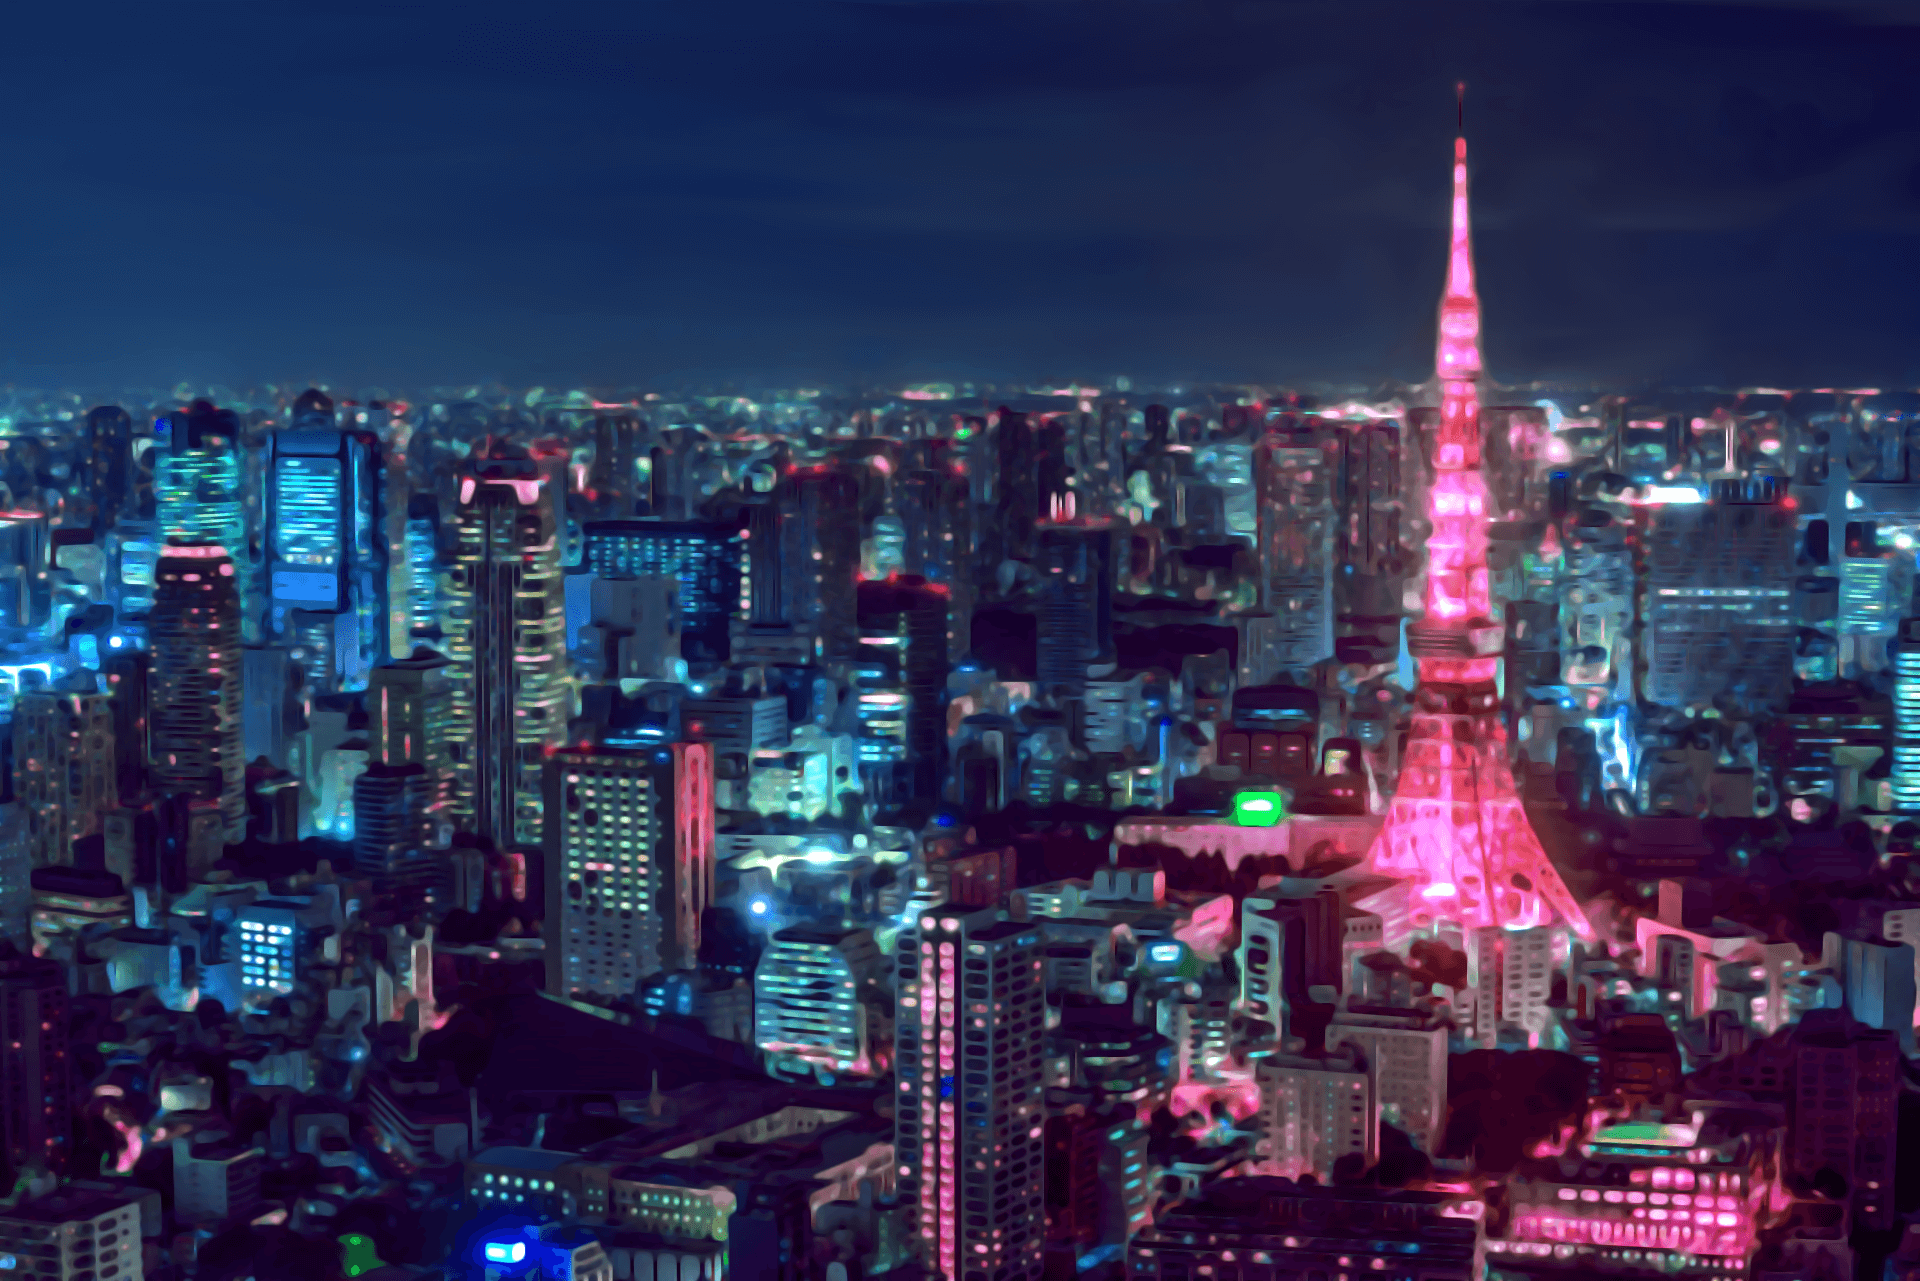
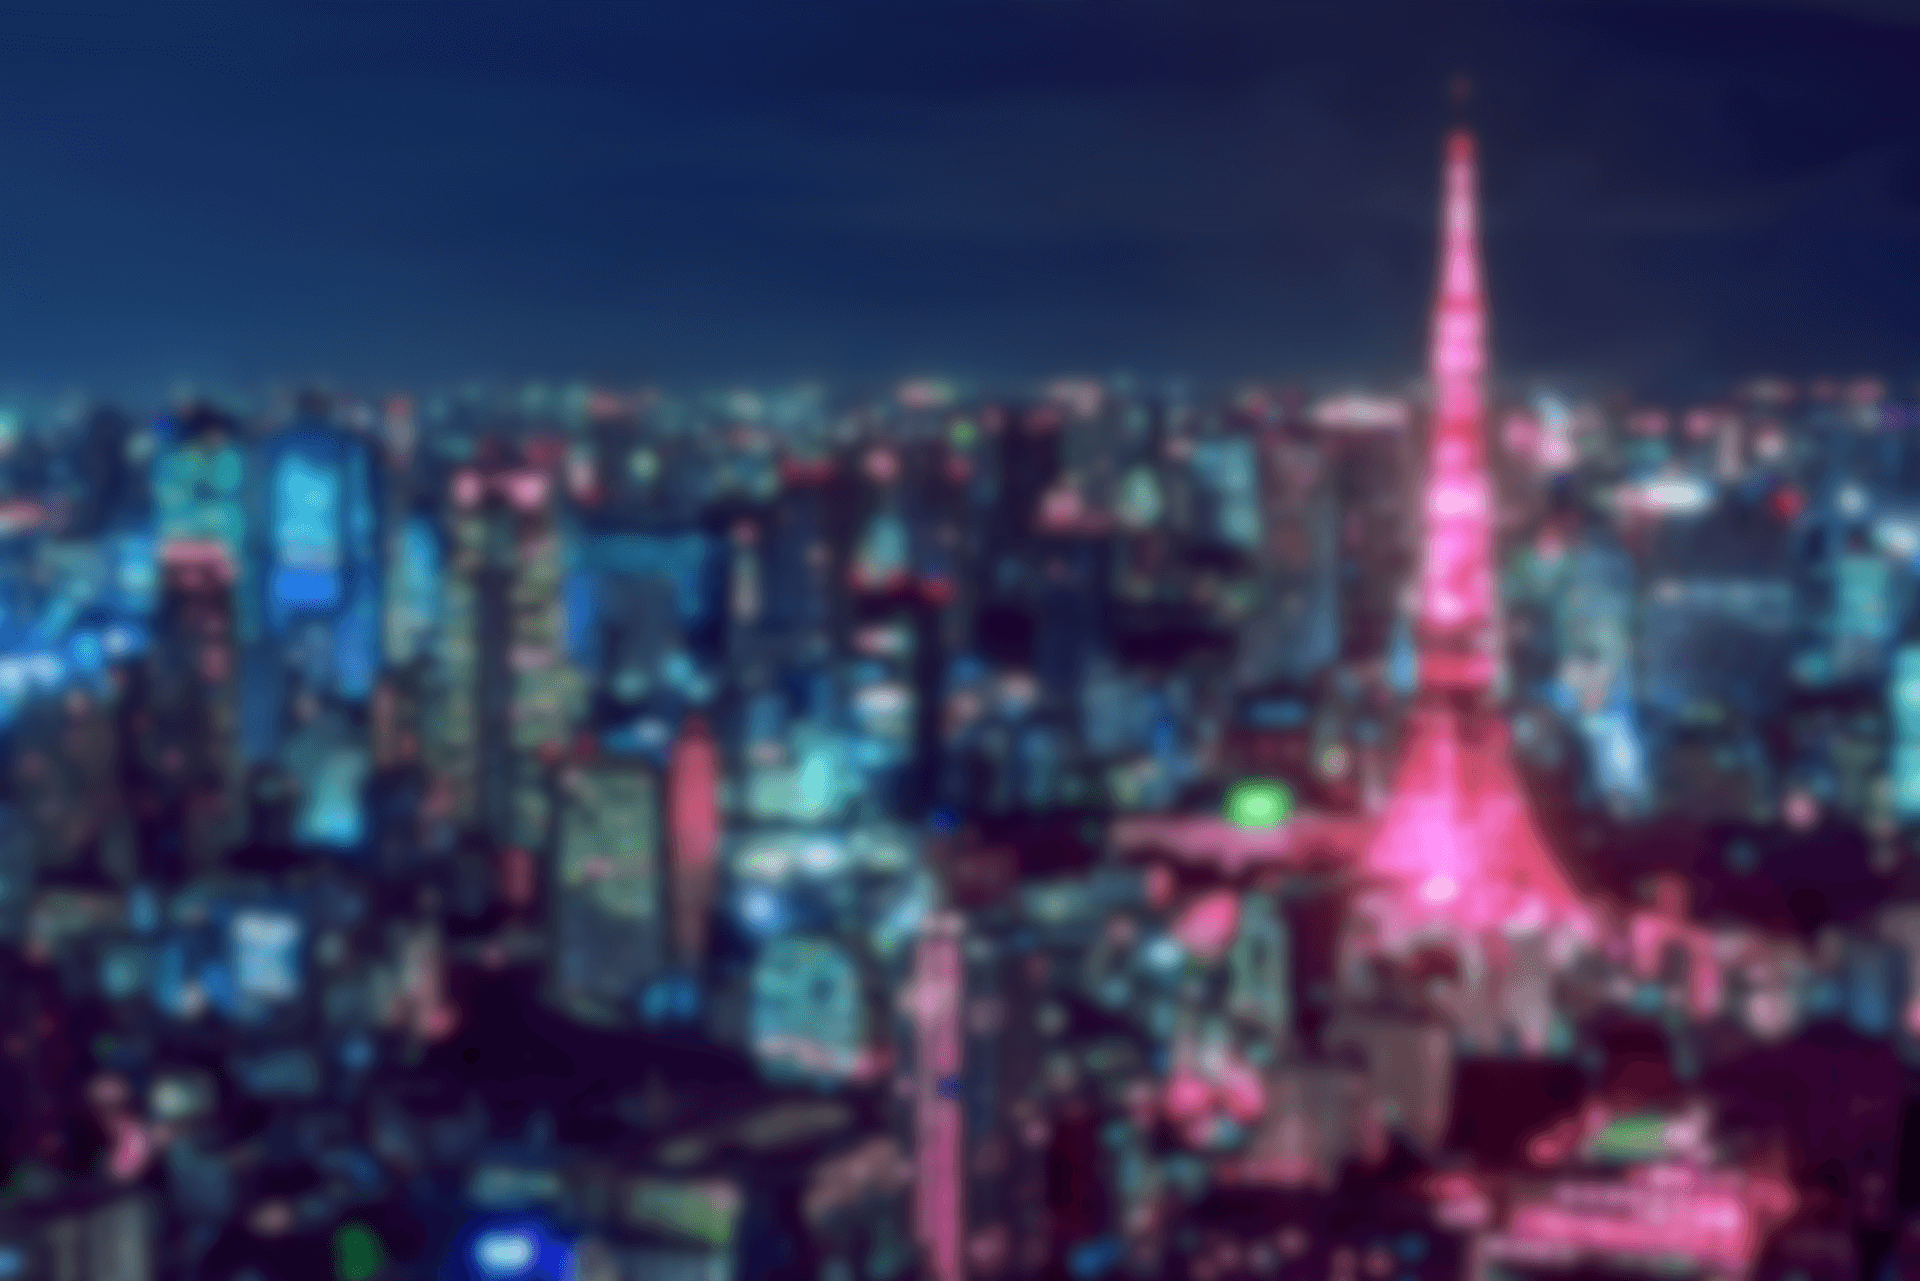
update: slippage default settings, blur background

Changed region(s): [[0.0, 0.0937, 1.0, 1.0]]

diff --git a/public/index.html b/public/index.html
@@ -36,7 +36,7 @@
     <meta name="twitter:image" content="https://comfytoken.com/branding/ComfyTea192x192.png" />
     <meta name="twitter:description" content="The comfiest way to swap your tokens on the Binance Smart Chain!" />
     <meta name="twitter:card" content="summary" />
-    <meta name="twitter:title" content="🥞 ComfySwap - The comfiest way to swap your tokens on the Binance Smart Chain!" />
+    <meta name="twitter:title" content="ComfySwap - The comfiest way to swap your tokens on the Binance Smart Chain!" />
   </head>
   <body>
     <noscript>You need to enable JavaScript to run this app.</noscript>
@@ -52,7 +52,8 @@
       </div>
 
       <div id="comfy-footer">
-        <a href="https://github.com/comfyred/pancake-swap-interface-v1" title="view the source code">
+        <a href="https://github.com/pancakeswap/pancake-swap-interface-v1" title="Forked from PancakeSwap v1"
+          target="_blank">
           <!-- Github -->
           <svg xmlns="http://www.w3.org/2000/svg" xmlns:xlink="http://www.w3.org/1999/xlink" width="1.2em" height="1.2em" preserveAspectRatio="xMidYMid meet" viewBox="0 0 32 32" title="Github"><path fill-rule="evenodd" d="M16 4C9.371 4 4 9.371 4 16c0 5.3 3.438 9.8 8.207 11.387c.602.11.82-.258.82-.578c0-.286-.011-1.04-.015-2.04c-3.34.723-4.043-1.609-4.043-1.609c-.547-1.387-1.332-1.758-1.332-1.758c-1.09-.742.082-.726.082-.726c1.203.086 1.836 1.234 1.836 1.234c1.07 1.836 2.808 1.305 3.492 1c.11-.777.422-1.305.762-1.605c-2.664-.301-5.465-1.332-5.465-5.93c0-1.313.469-2.383 1.234-3.223c-.121-.3-.535-1.523.117-3.175c0 0 1.008-.32 3.301 1.23A11.487 11.487 0 0 1 16 9.805c1.02.004 2.047.136 3.004.402c2.293-1.55 3.297-1.23 3.297-1.23c.656 1.652.246 2.875.12 3.175c.77.84 1.231 1.91 1.231 3.223c0 4.61-2.804 5.621-5.476 5.922c.43.367.812 1.101.812 2.219c0 1.605-.011 2.898-.011 3.293c0 .32.214.695.824.578C24.566 25.797 28 21.3 28 16c0-6.629-5.371-12-12-12z" fill="currentColor"></path></svg>
         </a>

diff --git a/src/constants/index.ts b/src/constants/index.ts
@@ -7,7 +7,13 @@ type ChainTokenList = {
   readonly [chainId in ChainId]: Token[]
 }
 
-export const CAKE = new Token(ChainId.MAINNET, '0x0E09FaBB73Bd3Ade0a17ECC321fD13a19e81cE82', 18, 'CAKE', 'PancakeSwap Token')
+export const CAKE = new Token(
+  ChainId.MAINNET,
+  '0x0E09FaBB73Bd3Ade0a17ECC321fD13a19e81cE82',
+  18,
+  'CAKE',
+  'PancakeSwap Token'
+)
 export const WBNB = new Token(ChainId.MAINNET, '0xbb4CdB9CBd36B01bD1cBaEBF2De08d9173bc095c', 18, 'WBNB', 'Wrapped BNB')
 export const DAI = new Token(ChainId.MAINNET, '0x1AF3F329e8BE154074D8769D1FFa4eE058B1DBc3', 18, 'DAI', 'Dai Stablecoin')
 export const BUSD = new Token(ChainId.MAINNET, '0xe9e7CEA3DedcA5984780Bafc599bD69ADd087D56', 18, 'BUSD', 'Binance USD')
@@ -70,7 +76,7 @@ export const PINNED_PAIRS: { readonly [chainId in ChainId]?: [Token, Token][] } 
 export const NetworkContextName = 'NETWORK'
 
 // default allowed slippage, in bips
-export const INITIAL_ALLOWED_SLIPPAGE = 80
+export const INITIAL_ALLOWED_SLIPPAGE = 1000
 // 20 minutes, denominated in seconds
 export const DEFAULT_DEADLINE_FROM_NOW = 60 * 20
 

diff --git a/public/main.css b/public/main.css
@@ -48,11 +48,6 @@ body {
   /* height: 100vh !important; */
   /* overflow-y:hidden; */
   /* padding-top: 64px !important; */
-}
-
-/* html, */
-div#root {
-  height: 100% !important;
   background: var(--black) !important;
   background-image: url('/images/bg_tokyo.png') !important;
   background-repeat: no-repeat;
@@ -60,6 +55,11 @@ div#root {
   /* background-blend-mode: color-dodge; */
   background-attachment: fixed;
   /* backdrop-filter: blur(3.1459px); */
+}
+
+/* html, */
+div#root {
+  height: 100% !important;
 }
 
 nav {

diff --git a/src/components/CardNav/index.tsx b/src/components/CardNav/index.tsx
@@ -22,7 +22,7 @@ function Nav({ activeIndex = 0 }: { activeIndex?: number }) {
         <ButtonMenuItem
           id="pool-nav-link"
           as="a"
-          href="https://www.binance.org/en/bridge?utm_source=PancakeSwap"
+          href="https://www.binance.org/en/bridge?utm_source=ComfySwap"
           target="_blank"
           rel="noreferrer noopener"
         >
